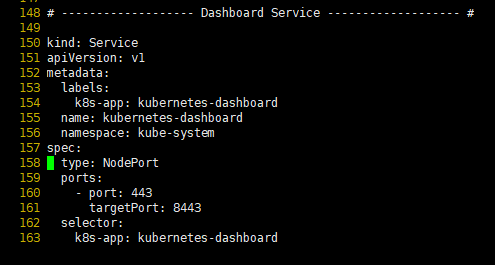
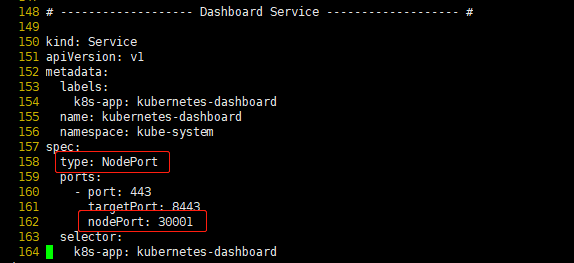
update image

Changed region(s): [[0.0303, 0.0, 0.8485, 1.0], [0.9394, 0.0304, 0.9697, 0.0608]]

diff --git a/kubeadm/使用kubeadm快速部署一个kube集群.md b/kubeadm/使用kubeadm快速部署一个kube集群.md
@@ -175,3 +175,8 @@ sudo systemctl restart docker
 
 2. 默认Dashboard只能集群内部访问，修改`157行`下面添加`Service`为`NodePort`类型，暴露到外部：
 ![Image text](./pic/Dashboard-Service.png)
+
+3. 部署kubernetes-dashboard
+```shell
+$ kubectl apply -f kubernetes-dashboard.yaml
+```
